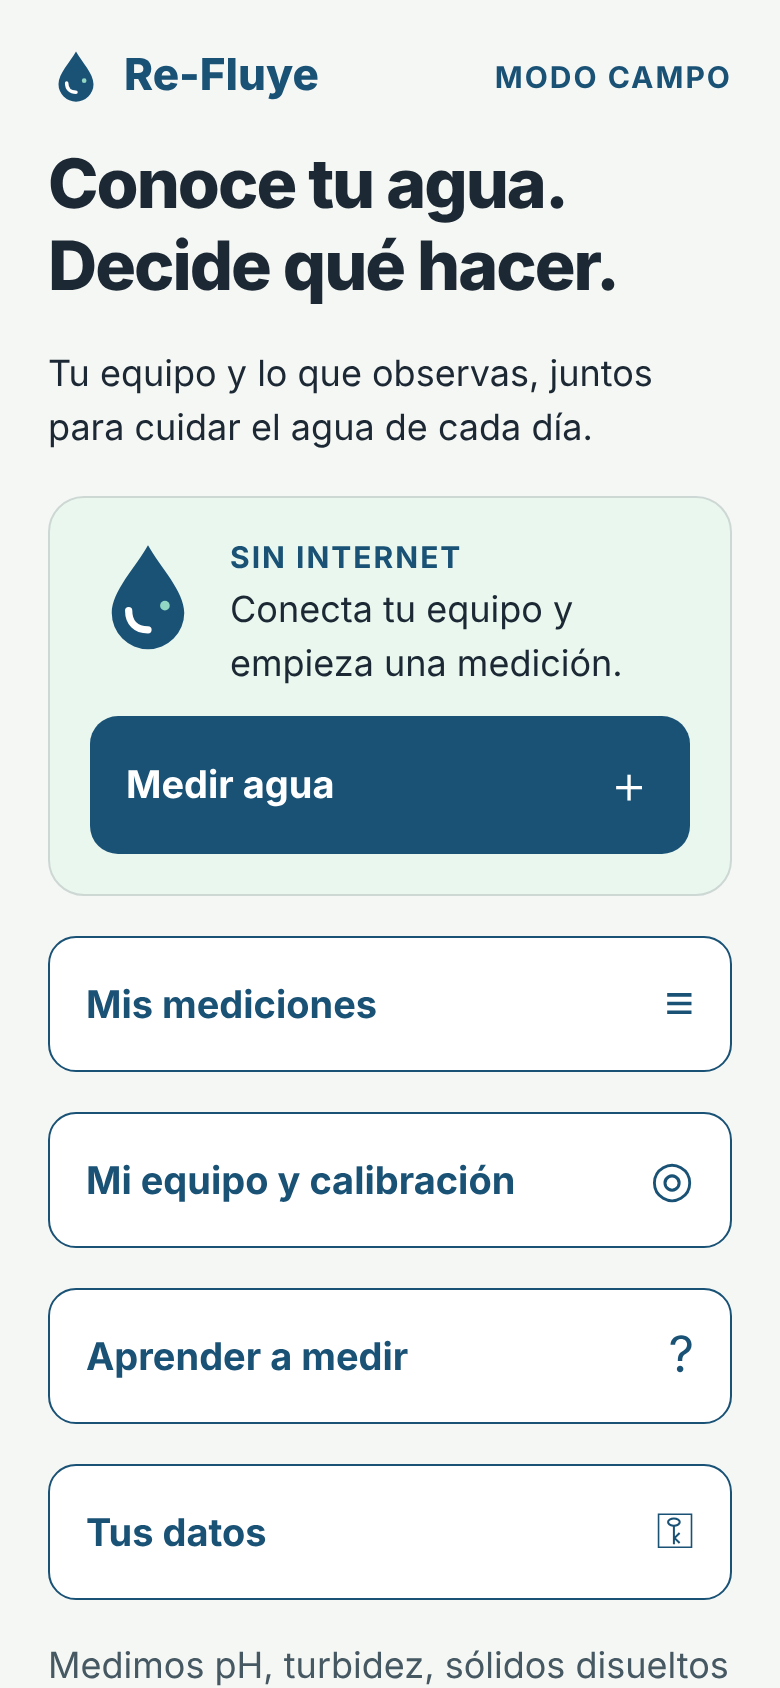
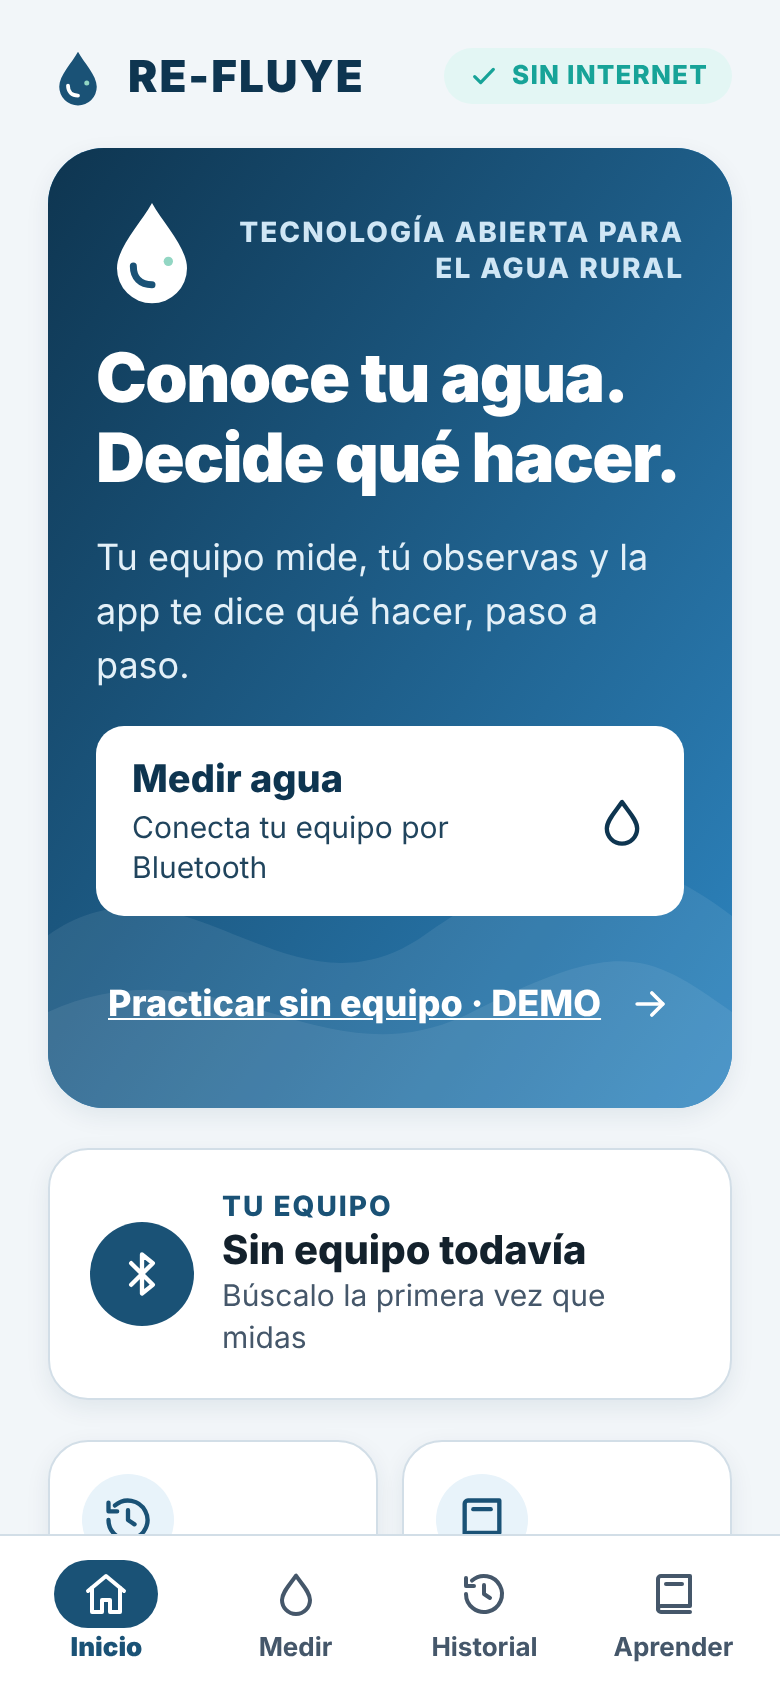
docs: README de RE-FLUYE 1.0 con capturas nuevas y descarga directa
Capturas de la nueva interfaz (inicio, sensores, observación, resultado
verde y rojo, historial), enlace a la última publicación, instrucciones
para firmar en GitHub con secretos y para publicar con una etiqueta.
Ajustes visuales menores en Medir (etiqueta de sensor y punto en vivo).

Claude-Session: https://claude.ai/code/session_01UuJNrqtdWmMFhB7d1mSLCe

diff --git a/mobile/src/app/medir.tsx b/mobile/src/app/medir.tsx
@@ -258,7 +258,7 @@ const est = StyleSheet.create({
   barra: { height: 8, borderRadius: radio.total, backgroundColor: colores.borde },
   barraLista: { backgroundColor: '#1B7A3E' },
   progresoTexto: { fontSize: 14, fontWeight: '800', color: colores.suave, textAlign: 'center' },
-  vivo: { flexDirection: 'row', alignItems: 'center', gap: 12, borderRadius: radio.l, padding: 14 },
-  puntoVivo: { width: 14, height: 14, borderRadius: 7 },
+  vivo: { flexDirection: 'row', alignItems: 'flex-start', gap: 12, borderRadius: radio.l, padding: 14 },
+  puntoVivo: { width: 14, height: 14, borderRadius: 7, marginTop: 7 },
   filaBotones: { flexDirection: 'row', gap: 10, flexWrap: 'wrap' },
 });

diff --git a/mobile/src/ui/sensores.tsx b/mobile/src/ui/sensores.tsx
@@ -195,7 +195,13 @@ const est = StyleSheet.create({
     padding: 14,
     gap: 2,
   },
-  sensorCabecera: { flexDirection: 'row', justifyContent: 'space-between', alignItems: 'baseline', gap: 6 },
+  sensorCabecera: {
+    flexDirection: 'row',
+    justifyContent: 'space-between',
+    alignItems: 'baseline',
+    gap: 6,
+    flexWrap: 'wrap',
+  },
   sensorNombre: { fontSize: 17, fontWeight: '800', color: colores.tinta },
   sensorAyuda: { fontSize: 13, color: colores.suave },
   sensorValor: { fontSize: 32, lineHeight: 38, fontWeight: '900', color: colores.marino, ...tipo.numero },

diff --git a/README.md b/README.md
@@ -12,16 +12,26 @@ qué hacer con ella. Funciona **sin internet**.
 > potable, y para beber o cocinar siempre pide desinfectar. No reemplaza un
 > análisis de laboratorio.
 
-Sitio del proyecto: **https://re-fluye.vercel.app/**
-
-<p>
-  <img src="docs/img/app-inicio.png" alt="Pantalla de inicio de la app RE-FLUYE" width="200">
-  <img src="docs/img/app-sensores.png" alt="Lecturas en vivo de pH, turbidez, sólidos disueltos y temperatura con el ICA orientativo" width="200">
-  <img src="docs/img/app-resultado.png" alt="Resultado: posible tratamiento, con aclarado y hervido de 3 minutos" width="200">
-  <img src="docs/img/app-veto.png" alt="Resultado: busca otra fuente, por olor a combustible" width="200">
+<p align="center">
+  <a href="https://github.com/tomasmanuelgp/CampusMind/releases/latest"><b>⬇ Descargar la app para Android</b></a>
+  ·
+  <a href="https://re-fluye.vercel.app/">Sitio del proyecto</a>
+  ·
+  <a href="docs/hardware.md">Construye tu equipo</a>
 </p>
 
-<sub>Capturas del modo DEMO (datos simulados) de la versión 0.3.3.</sub>
+<p align="center">
+  <img src="docs/img/app-inicio.png" alt="Inicio: conoce tu agua y decide qué hacer, con el botón Medir agua" width="200">
+  <img src="docs/img/app-sensores.png" alt="Lecturas en vivo con el ICA orientativo y el estado de cada parámetro" width="200">
+  <img src="docs/img/app-observar.png" alt="Observaciones con pictogramas: cómo se ve el agua" width="200">
+</p>
+<p align="center">
+  <img src="docs/img/app-resultado.png" alt="Resultado en verde: trátala antes de consumir, con aclarado y hervido de 3 minutos" width="200">
+  <img src="docs/img/app-veto.png" alt="Resultado en rojo: busca otra fuente, por olor a combustible" width="200">
+  <img src="docs/img/app-historial.png" alt="Historial de mediciones con el color de cada resultado" width="200">
+</p>
+
+<p align="center"><sub>RE-FLUYE 1.0 en modo DEMO (datos simulados).</sub></p>
 
 ## El problema
 
@@ -118,10 +128,10 @@ La guía completa, con diagramas y problemas comunes, está en
 
 ### En un teléfono Android
 
-1. Descarga la APK más reciente en
-   [**Publicaciones**](https://github.com/tomasmanuelgp/CampusMind/releases)
-   (sección *Assets*). Requiere Android 7.0 o superior con Bluetooth Classic.
-   La app no funciona en iPhone por ahora.
+1. Descarga la APK de la
+   [**última publicación**](https://github.com/tomasmanuelgp/CampusMind/releases/latest)
+   (sección *Assets*, archivo `refluye-1.0.0-….apk`). Requiere Android 7.0 o
+   superior con Bluetooth Classic. La app no funciona en iPhone por ahora.
 2. Ábrela desde **Archivos** o **Descargas**. Si Android lo pide, permite
    instalar apps de esa fuente.
 3. Toca **Instalar** y luego **Abrir**. Si tienes una versión anterior,
@@ -130,9 +140,11 @@ La guía completa, con diagramas y problemas comunes, está en
 5. Para medir de verdad: enciende el equipo, activa Bluetooth, toca **Buscar
    equipos cercanos**, acepta el permiso y elige **ReFluye-V2**.
 
-> Las APK publicadas hasta la 0.3.2 son versiones de prueba con firma de
-> desarrollo. Instala solo el archivo publicado allí, nunca una copia
-> reenviada. Ver [SECURITY.md](SECURITY.md#apk-oficial).
+> Cada APK se compila en GitHub a partir de este código y se publica con su
+> suma SHA-256. Si su nombre termina en `pruebas-firma-desarrollo`, es una
+> versión de pruebas. Instala solo el archivo publicado allí, nunca una copia
+> reenviada. Ver [SECURITY.md](SECURITY.md#apk-oficial) y el
+> [registro de cambios](CHANGELOG.md).
 
 ### En el computador (para desarrollar)
 

diff --git a/mobile/README.md b/mobile/README.md
@@ -1,6 +1,6 @@
 # Re-Fluye · App Android de campo
 
-Versión del código: **0.3.3** (esquema de datos v2). Última APK de pruebas
+Versión del código: **1.0.0** (nuevo frontend, esquema de datos v2). Última APK de pruebas
 publicada: [Publicaciones](https://github.com/tomasmanuelgp/CampusMind/releases).
 Aceptación en Android físico pendiente: [guion de pruebas](../docs/app/13-pruebas-apk.md).
 
@@ -47,6 +47,14 @@ npm run android
 
 Bluetooth Classic necesita código nativo: Expo Go no sirve para conectarse al
 equipo. La vista `npm run web` permite revisar el flujo DEMO; no mide por Bluetooth.
+
+## Compilar la APK en GitHub (sin instalar nada)
+
+Cada PR que toca la app compila la APK en GitHub Actions y la deja como
+artefacto de la ejecución. Para publicar una versión, crea una etiqueta
+`vX.Y.Z` (por ejemplo desde _Releases → Draft a new release_): el flujo
+[`apk.yml`](../.github/workflows/apk.yml) compila, firma y adjunta la APK,
+su SHA-256 y los manuales.
 
 ## Compilar una APK local
 
@@ -103,7 +111,13 @@ Para una APK que sí se puede publicar:
 
 3. Ejecuta `scripts/compilar-apk.ps1`. El plugin `plugins/with-firma-publicacion.js`
    usa esas variables; el archivo de salida termina en `-publicacion.apk`.
-4. Publica junto a la APK la huella SHA-256 del certificado
+4. **En GitHub (recomendado):** guarda el keystore como secretos del
+   repositorio en _Settings → Secrets and variables → Actions_:
+   `REFLUYE_KEYSTORE_BASE64` (el archivo en base64:
+   `base64 -w0 refluye-publicacion.keystore`), `REFLUYE_KEYSTORE_PASSWORD`,
+   `REFLUYE_KEY_ALIAS` y `REFLUYE_KEY_PASSWORD`. El flujo
+   [`apk.yml`](../.github/workflows/apk.yml) firmará cada publicación con él.
+5. Publica junto a la APK la huella SHA-256 del certificado
    (`keytool -list -v -keystore ...`) y anótala en `SECURITY.md`.
 
 ## Verificación disponible
